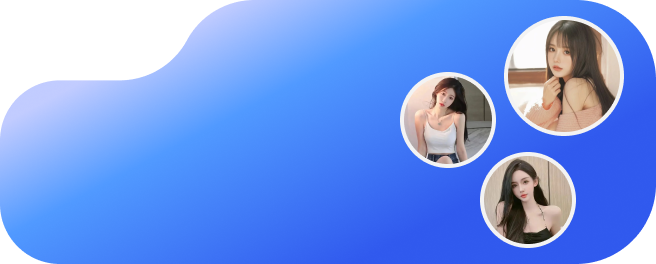
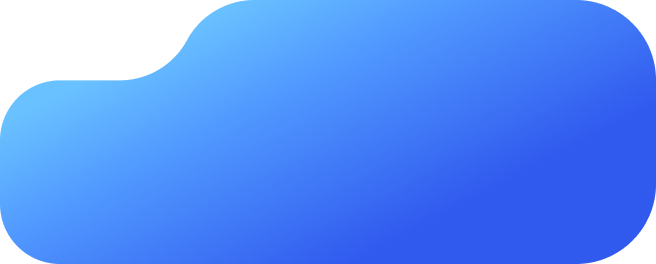
音视频速配动效

Changed region(s): [[0.6098, 0.0606, 0.9756, 0.9394], [0.0, 0.0, 0.6098, 0.7879]]

diff --git a/lib/ui/plaza/dating_hall/dating_hall_view.dart b/lib/ui/plaza/dating_hall/dating_hall_view.dart
@@ -32,8 +32,8 @@ class DatingHallView extends StatefulWidget {
   State<DatingHallView> createState() => _DatingHallViewState();
 }
 
-class _DatingHallViewState extends State<DatingHallView> with AutomaticKeepAliveClientMixin {
-
+class _DatingHallViewState extends State<DatingHallView>
+    with AutomaticKeepAliveClientMixin {
   final controller = Get.put(RectifyTheWorkplaceController());
   final state = Get.find<RectifyTheWorkplaceController>().state;
 
@@ -63,35 +63,52 @@ class _DatingHallViewState extends State<DatingHallView> with AutomaticKeepAlive
                     child: Container(
                       decoration: BoxDecoration(
                           image: DecorationImage(
-                              image: AppAssetImage(state.speedDating[i]['image']),
-                              fit: BoxFit.fitWidth)),
-                      height: 70.rpx,
+                              image:
+                                  AppAssetImage(state.speedDating[i]['image']),
+                              fit: BoxFit.fill)),
+                      height: 66.rpx,
                       alignment: Alignment.centerLeft,
                       margin: EdgeInsets.only(right: 15.rpx),
-                      child: Column(
-                        crossAxisAlignment: CrossAxisAlignment.start,
+                      padding: EdgeInsets.only(right: 2.rpx),
+                      child: Row(
                         children: [
-                          Container(
-                            margin: EdgeInsets.only(top: 8.rpx),
-                            child: AppImage.asset(state.speedDating[i]['text'],height: 24.rpx,),
+                          Expanded(
+                            child: Column(
+                              crossAxisAlignment: CrossAxisAlignment.start,
+                              children: [
+                                Container(
+                                  margin: EdgeInsets.only(top: 8.rpx),
+                                  child: AppImage.asset(
+                                    state.speedDating[i]['text'],
+                                    height: 24.rpx,
+                                  ),
+                                ),
+                                Container(
+                                  margin:
+                                      EdgeInsets.only(left: 4.rpx, top: 4.rpx),
+
+                                  padding: EdgeInsets.only(
+                                      left: 4.rpx, top: 3.rpx, bottom: 3.rpx),
+                                  decoration: BoxDecoration(
+                                      gradient: LinearGradient(colors: [
+                                        Colors.white.withOpacity(0.16),
+                                        Colors.white.withOpacity(0),
+                                      ]),
+                                      borderRadius:
+                                          BorderRadius.circular(4.rpx)),
+                                  child: Text(
+                                    state.speedDating[i]['subtitle'],
+                                    style: AppTextStyle.fs12.copyWith(
+                                        color: AppColor.white5, height: 1.0),
+                                  ),
+                                ),
+                              ],
+                            ),
                           ),
-                          Container(
-                            margin: EdgeInsets.only(left: 4.rpx,top: 3.rpx),
-                            padding: EdgeInsets.only(left: 4.rpx,top: 3.rpx,bottom: 3.rpx),
-                            decoration: BoxDecoration(
-                              gradient: LinearGradient(
-                                colors: [
-                                  Colors.white.withOpacity(0.16),
-                                  Colors.white.withOpacity(0),
-                                ]
-                              ),
-                              borderRadius: BorderRadius.circular(4.rpx)
-                            ),
-                            child: Text(
-                              state.speedDating[i]['subtitle'],
-                              style: AppTextStyle.fs10
-                                  .copyWith(color: AppColor.white5,height: 1.0),
-                            ),
+                          AppImage.svga(
+                            state.speedDating[i]['svga'],
+                            width: 60.rpx,
+                            height: 60.rpx,
                           ),
                         ],
                       ),
@@ -113,12 +130,14 @@ class _DatingHallViewState extends State<DatingHallView> with AutomaticKeepAlive
     return Column(
       children: [
         Container(
-          margin: EdgeInsets.symmetric(horizontal: 16.rpx).copyWith(top: 4.rpx,bottom: 12.rpx),
+          margin: EdgeInsets.symmetric(horizontal: 16.rpx)
+              .copyWith(top: 4.rpx, bottom: 12.rpx),
           child: Row(
             children: [
               Text(
                 S.current.datingHall,
-                style: AppTextStyle.fs18.copyWith(color: AppColor.black20,height: 1.0),
+                style: AppTextStyle.fs18
+                    .copyWith(color: AppColor.black20, height: 1.0),
               ),
               const Spacer(),
               GestureDetector(
@@ -126,18 +145,20 @@ class _DatingHallViewState extends State<DatingHallView> with AutomaticKeepAlive
                 onTap: controller.onTapFiltrate,
                 child: Container(
                   decoration: BoxDecoration(
-                    borderRadius: BorderRadius.circular(4.rpx),
-                    color: Colors.white.withOpacity(0.3)
-                  ),
-                  padding: EdgeInsets.symmetric(horizontal: 8.rpx,vertical: 3.rpx),
+                      borderRadius: BorderRadius.circular(4.rpx),
+                      color: Colors.white.withOpacity(0.3)),
+                  padding:
+                      EdgeInsets.symmetric(horizontal: 8.rpx, vertical: 3.rpx),
                   child: Row(
                     children: [
                       Text(
                         S.current.filtrate,
                         style:
-                        AppTextStyle.fs12.copyWith(color: AppColor.gray5),
+                            AppTextStyle.fs12.copyWith(color: AppColor.gray5),
                       ),
-                      SizedBox(width: 2.rpx,),
+                      SizedBox(
+                        width: 2.rpx,
+                      ),
                       AppImage.asset(
                         'assets/images/plaza/screen.png',
                         width: 8.rpx,
@@ -153,19 +174,19 @@ class _DatingHallViewState extends State<DatingHallView> with AutomaticKeepAlive
         ),
         Expanded(
             child: SmartRefresher(
-              controller: controller.pagingController.refreshController,
-              onRefresh: controller.pagingController.onRefresh,
-              child: PagedListView(
-                pagingController: controller.pagingController,
-                padding: EdgeInsets.symmetric(horizontal: 16.rpx),
-                builderDelegate: DefaultPagedChildBuilderDelegate<RecommendModel>(
-                  pagingController: controller.pagingController,
-                  itemBuilder: (_, item, index) {
-                    return friendsItem(item);
-                  },
-                ),
-              ),
-            )),
+          controller: controller.pagingController.refreshController,
+          onRefresh: controller.pagingController.onRefresh,
+          child: PagedListView(
+            pagingController: controller.pagingController,
+            padding: EdgeInsets.symmetric(horizontal: 16.rpx),
+            builderDelegate: DefaultPagedChildBuilderDelegate<RecommendModel>(
+              pagingController: controller.pagingController,
+              itemBuilder: (_, item, index) {
+                return friendsItem(item);
+              },
+            ),
+          ),
+        )),
       ],
     );
   }
@@ -174,26 +195,30 @@ class _DatingHallViewState extends State<DatingHallView> with AutomaticKeepAlive
   Widget friendsItem(RecommendModel item) {
     return GestureDetector(
       behavior: HitTestBehavior.translucent,
-      onTap: () => Get.toNamed(AppRoutes.userCenterPage, arguments: {'userId': item.uid}),
+      onTap: () => Get.toNamed(AppRoutes.userCenterPage,
+          arguments: {'userId': item.uid}),
       child: Container(
         decoration: const BoxDecoration(
             image: DecorationImage(
-                image: AppAssetImage("assets/images/plaza/friend_item_back.png")
-            )
-        ),
+                image:
+                    AppAssetImage("assets/images/plaza/friend_item_back.png"))),
         height: 90.rpx,
-        padding: EdgeInsets.all(5.rpx),
         margin: EdgeInsets.only(bottom: 8.rpx),
         child: Stack(
           children: [
             Row(
               children: [
                 Container(
-                  margin: EdgeInsets.only(right: 10.rpx),
-                  child: UserAvatar.circle(
-                    item.avatar ?? '',
-                    size: 80.rpx,
-                    // fit: BoxFit.cover,
+                  margin: EdgeInsets.only(right: 5.rpx),
+                  child: Stack(
+                    alignment: Alignment.center,
+                    children: [
+                      AppImage.svga('assets/images/plaza/头像.svga', width: 90.rpx, height: 90.rpx,),
+                      UserAvatar.circle(
+                        item.avatar ?? '',
+                        size: 74.rpx,
+                      ),
+                    ],
                   ),
                 ),
                 Expanded(
@@ -202,26 +227,39 @@ class _DatingHallViewState extends State<DatingHallView> with AutomaticKeepAlive
                     mainAxisAlignment: MainAxisAlignment.spaceBetween,
                     children: [
                       Container(
-                        margin: EdgeInsets.only(top: 8.rpx,right: 3.rpx),
+                        margin: EdgeInsets.only(top: 13.rpx, right: 3.rpx),
                         child: Row(
                           children: [
                             Container(
                               constraints: BoxConstraints(
-                                  maxWidth: item.nameplate != null && item.nameplate!.isNotEmpty ? (Get.width-254.rpx):(Get.width-210.rpx)
-                              ),
+                                  maxWidth: item.nameplate != null &&
+                                          item.nameplate!.isNotEmpty
+                                      ? (Get.width - 254.rpx)
+                                      : (Get.width - 210.rpx)),
                               child: Text(
                                 item.nickname ?? '',
-                                style: AppTextStyle.fs14b.copyWith(color: AppColor.black20,height: 1.0,),
+                                style: AppTextStyle.fs14b.copyWith(
+                                  color: AppColor.black20,
+                                  height: 1.0,
+                                ),
                                 overflow: TextOverflow.ellipsis,
                               ),
                             ),
                             Container(
-                              margin: EdgeInsets.only(left: 4.rpx,right: 4.rpx),
-                              child: AppImage.asset(UserGender.valueForIndex(item.gender ?? 0).icon,width: 12.rpx,height: 12.rpx),
+                              margin:
+                                  EdgeInsets.only(left: 4.rpx, right: 4.rpx),
+                              child: AppImage.asset(
+                                  UserGender.valueForIndex(item.gender ?? 0)
+                                      .icon,
+                                  width: 12.rpx,
+                                  height: 12.rpx),
                             ),
                             Visibility(
-                              visible: item.nameplate != null && item.nameplate!.isNotEmpty,
-                              child: CachedNetworkImage(imageUrl: item.nameplate ?? '',height: 12.rpx),
+                              visible: item.nameplate != null &&
+                                  item.nameplate!.isNotEmpty,
+                              child: CachedNetworkImage(
+                                  imageUrl: item.nameplate ?? '',
+                                  height: 12.rpx),
                             ),
                           ],
                         ),
@@ -229,11 +267,20 @@ class _DatingHallViewState extends State<DatingHallView> with AutomaticKeepAlive
                       Container(
                         height: 20.rpx,
                         margin: EdgeInsets.only(right: 15.rpx),
-                        child: UserStyle(styleList: item.styleList,),
+                        child: UserStyle(
+                          styleList: item.styleList,
+                        ),
                       ),
                       Container(
-                        margin: EdgeInsets.only(right: 15.rpx,bottom: 10.rpx),
-                        child: Text(item.signature ?? '',style: AppTextStyle.fs10.copyWith(color: AppColor.grayText,overflow: TextOverflow.ellipsis,height: 1.01),maxLines: 1,),
+                        margin: EdgeInsets.only(right: 15.rpx, bottom: 13.rpx),
+                        child: Text(
+                          item.signature ?? '',
+                          style: AppTextStyle.fs10.copyWith(
+                              color: AppColor.grayText,
+                              overflow: TextOverflow.ellipsis,
+                              height: 1.01),
+                          maxLines: 1,
+                        ),
                       ),
                     ],
                   ),
@@ -241,13 +288,17 @@ class _DatingHallViewState extends State<DatingHallView> with AutomaticKeepAlive
               ],
             ),
             Positioned(
-              top: 3.rpx,
-              right: 3.rpx,
+              top: 10.rpx,
+              right: 8.rpx,
               child: GestureDetector(
-                onTap: (){
+                onTap: () {
                   ChatManager().startChat(userId: item.uid!);
                 },
-                child: AppImage.asset('assets/images/plaza/hi_like.png',width: 52.rpx,height: 24.rpx,),
+                child: AppImage.asset(
+                  'assets/images/plaza/hi_like.png',
+                  width: 52.rpx,
+                  height: 24.rpx,
+                ),
               ),
             ),
           ],

diff --git a/lib/ui/plaza/dating_hall/dating_hall_state.dart b/lib/ui/plaza/dating_hall/dating_hall_state.dart
@@ -12,6 +12,7 @@ class RectifyTheWorkplaceState {
       "name":S.current.videoDating,
       "subtitle": S.current.communicateEmotionsFace,
       "image":"assets/images/plaza/voice_back.png",
+      "svga":"assets/images/plaza/视频速配.svga",
       "text":"assets/images/plaza/voice_text.png",
       "isVideo": true,
       "color":[
@@ -23,6 +24,7 @@ class RectifyTheWorkplaceState {
       "name":S.current.voiceDating,
       "subtitle": S.current.exploreSoulSound,
       "image":"assets/images/plaza/video_back.png",
+      "svga":"assets/images/plaza/语音速配.svga",
       "text":"assets/images/plaza/video_text.png",
       "isVideo": false,
       "color":[
